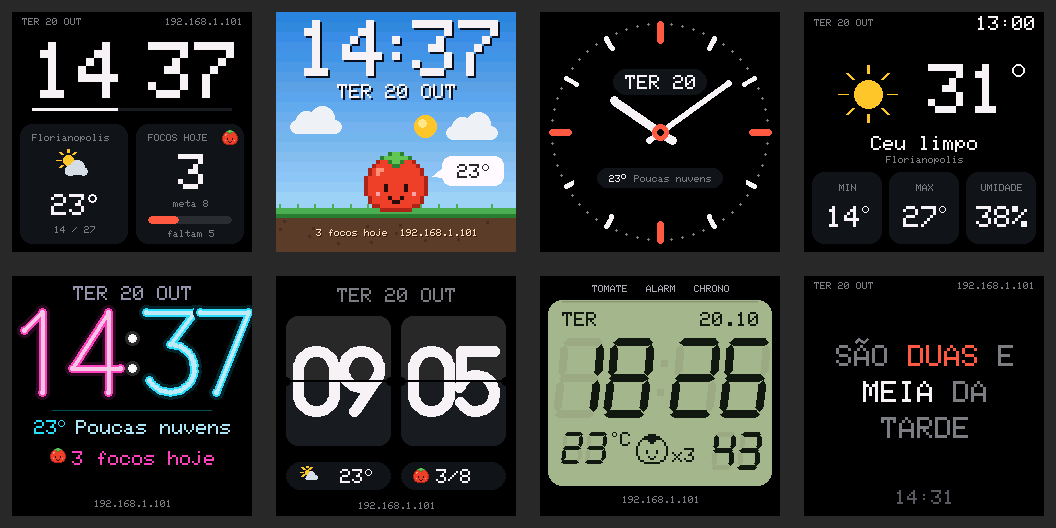
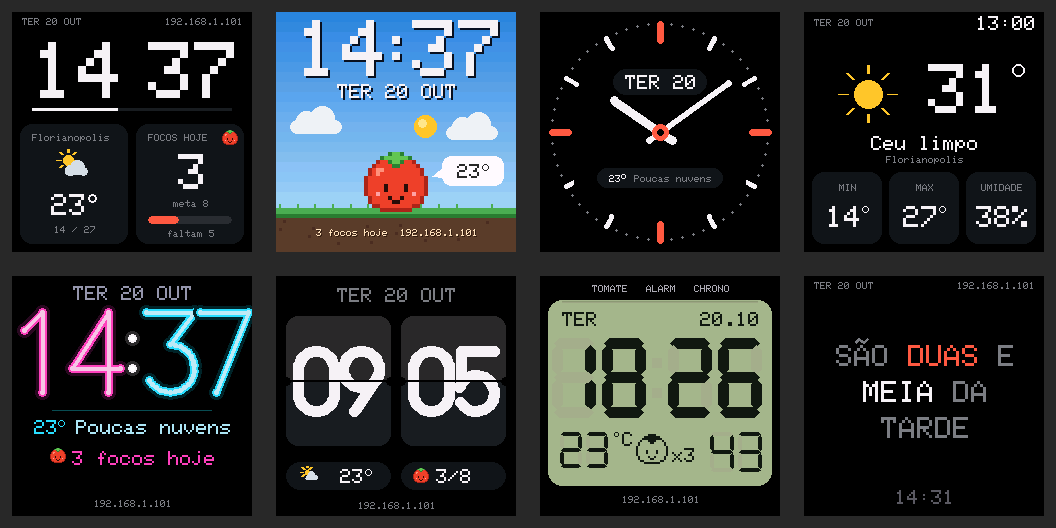
LCD retrô: dígitos retos e mais grossos para ler melhor
A inclinação itálica criava degraus nas bordas e os traços finos (8 px)
deixavam os números com aparência borrada. Agora: dígitos retos com traço
de 11 px, segmentos apagados quase invisíveis e dígitos pequenos com
traço fino e miolo aberto.

Changed region(s): [[0.5312, 0.6364, 0.75, 0.7879], [0.5312, 0.8182, 0.5938, 0.9091], [0.6562, 0.8182, 0.7188, 0.9091]]

diff --git a/smalltv-pomodoro/ui.cpp b/smalltv-pomodoro/ui.cpp
@@ -860,7 +860,7 @@ static void themeFlip(const UiState &s, bool full) {
 
 // ---------- tema 6: LCD RETRÔ ----------
 // Relógio de pulso dos anos 80: tela verde-acinzentada, 7 segmentos com os apagados visíveis.
-static const uint16_t LCD_BG = uiRgb(166, 180, 140), LCD_ON = uiRgb(18, 24, 16), LCD_GHOST = uiRgb(157, 171, 132);  // fantasma = só um vestígio, como no LCD real
+static const uint16_t LCD_BG = uiRgb(166, 180, 140), LCD_ON = uiRgb(18, 24, 16), LCD_GHOST = uiRgb(161, 175, 136);  // fantasma = só um vestígio, como no LCD real
 static const uint8_t SEG7[10] = {0x3F, 0x06, 0x5B, 0x4F, 0x66, 0x6D, 0x7D, 0x07, 0x7F, 0x6F};
 
 // Segmentos hexagonais (pontas chanfradas) com inclinação itálica, como nos relógios Casio:
@@ -888,7 +888,7 @@ static void vseg(int x, int y, int len, int t, uint16_t c) {
 }
 
 // Cada segmento é pintado (aceso ou "fantasma"): troca de dígito sem limpar a área.
-static void seg7(int x, int y, int w, int h, int t, int d, uint16_t on, uint16_t off, float slant = 0.12f) {
+static void seg7(int x, int y, int w, int h, int t, int d, uint16_t on, uint16_t off, float slant = 0) {
   segK = slant;
   segYRef = y + h;
   uint8_t s = d < 0 ? 0 : SEG7[d];
@@ -906,7 +906,7 @@ static void seg7(int x, int y, int w, int h, int t, int d, uint16_t on, uint16_t
 
 // Quadradinho inclinado (dois-pontos do LCD)
 static void lcdDot(int x, int y, int sz, int yRef, uint16_t c) {
-  segK = 0.12f;
+  segK = 0;  // reto: a inclinação criava degraus nas bordas e deixava o dígito com cara de borrado
   segYRef = yRef;
   const int p[4][2] = {{x, y}, {x + sz - 1, y}, {x + sz - 1, y + sz - 1}, {x, y + sz - 1}};
   segPoly(p, 4, c);
@@ -962,20 +962,20 @@ static void themeLcd(const UiState &s, bool full) {
   const int X[4] = {12, 62, 128, 178}, Y = 62, H = 80;
   for (int i = 0; i < 4; i++)
     if (full || lastDig[i] != v[i]) {
-      seg7(X[i], Y, 44, H, 8, v[i], LCD_ON, LCD_GHOST);
+      seg7(X[i], Y, 44, H, 11, v[i], LCD_ON, LCD_GHOST);  // traço grosso: legível de longe
       lastDig[i] = v[i];
     }
   bool colon = !s.timeOk || s.now.tm_sec % 2 == 0;
   if (full || colon != lastColon) {
-    lcdDot(114, Y + 22, 7, Y + H, colon ? LCD_ON : LCD_GHOST);
-    lcdDot(114, Y + 51, 7, Y + H, colon ? LCD_ON : LCD_GHOST);
+    lcdDot(112, Y + 20, 10, Y + H, colon ? LCD_ON : LCD_GHOST);
+    lcdDot(112, Y + 50, 10, Y + H, colon ? LCD_ON : LCD_GHOST);
     lastColon = colon;
   }
   // segundos pequenos
   int sec = s.timeOk ? s.now.tm_sec : -1;
   if (full || sec != lastSecW) {
-    seg7(170, 156, 22, 38, 5, sec < 0 ? -1 : sec / 10, LCD_ON, LCD_GHOST);
-    seg7(196, 156, 22, 38, 5, sec < 0 ? -1 : sec % 10, LCD_ON, LCD_GHOST);
+    seg7(170, 156, 24, 40, 4, sec < 0 ? -1 : sec / 10, LCD_ON, LCD_GHOST);  // pequenos: traço fino com miolo aberto
+    seg7(198, 156, 24, 40, 4, sec < 0 ? -1 : sec % 10, LCD_ON, LCD_GHOST);
     lastSecW = sec;
   }
   // temperatura (7 segmentos médios) e focos com o tomate monocromático
@@ -984,15 +984,15 @@ static void themeLcd(const UiState &s, bool full) {
     if (s.weatherOn && s.wx.ok) {
       int t = (int)lroundf(s.wx.t);
       if (t >= 0 && t <= 99) {
-        seg7(20, 156, 20, 32, 4, t >= 10 ? t / 10 : -1, LCD_ON, LCD_GHOST);
-        seg7(44, 156, 20, 32, 4, t % 10, LCD_ON, LCD_GHOST);
+        seg7(20, 156, 22, 36, 4, t >= 10 ? t / 10 : -1, LCD_ON, LCD_GHOST);
+        seg7(46, 156, 22, 36, 4, t % 10, LCD_ON, LCD_GHOST);
       } else {
         char n[8];
         snprintf(n, sizeof n, "%d", t);
         text(20, 160, 3, LCD_ON, n);
       }
-      degree(72, 156, 1, LCD_ON);
-      text(80, 156, 2, LCD_ON, "C");
+      degree(74, 156, 1, LCD_ON);
+      text(82, 156, 2, LCD_ON, "C");
     }
     mascotMono(96, 158, 2, LCD_ON, LCD_BG);
     char f[12];

diff --git a/smalltv-pomodoro/main.cpp b/smalltv-pomodoro/main.cpp
@@ -27,7 +27,7 @@
 #include "ui.h"
 #include "web.h"
 
-#define FW_VERSION "1.3.2"
+#define FW_VERSION "1.3.3"
 #define HOSTNAME   "smalltv"
 #define AP_NAME    "SmallTV-Pomodoro"
 
